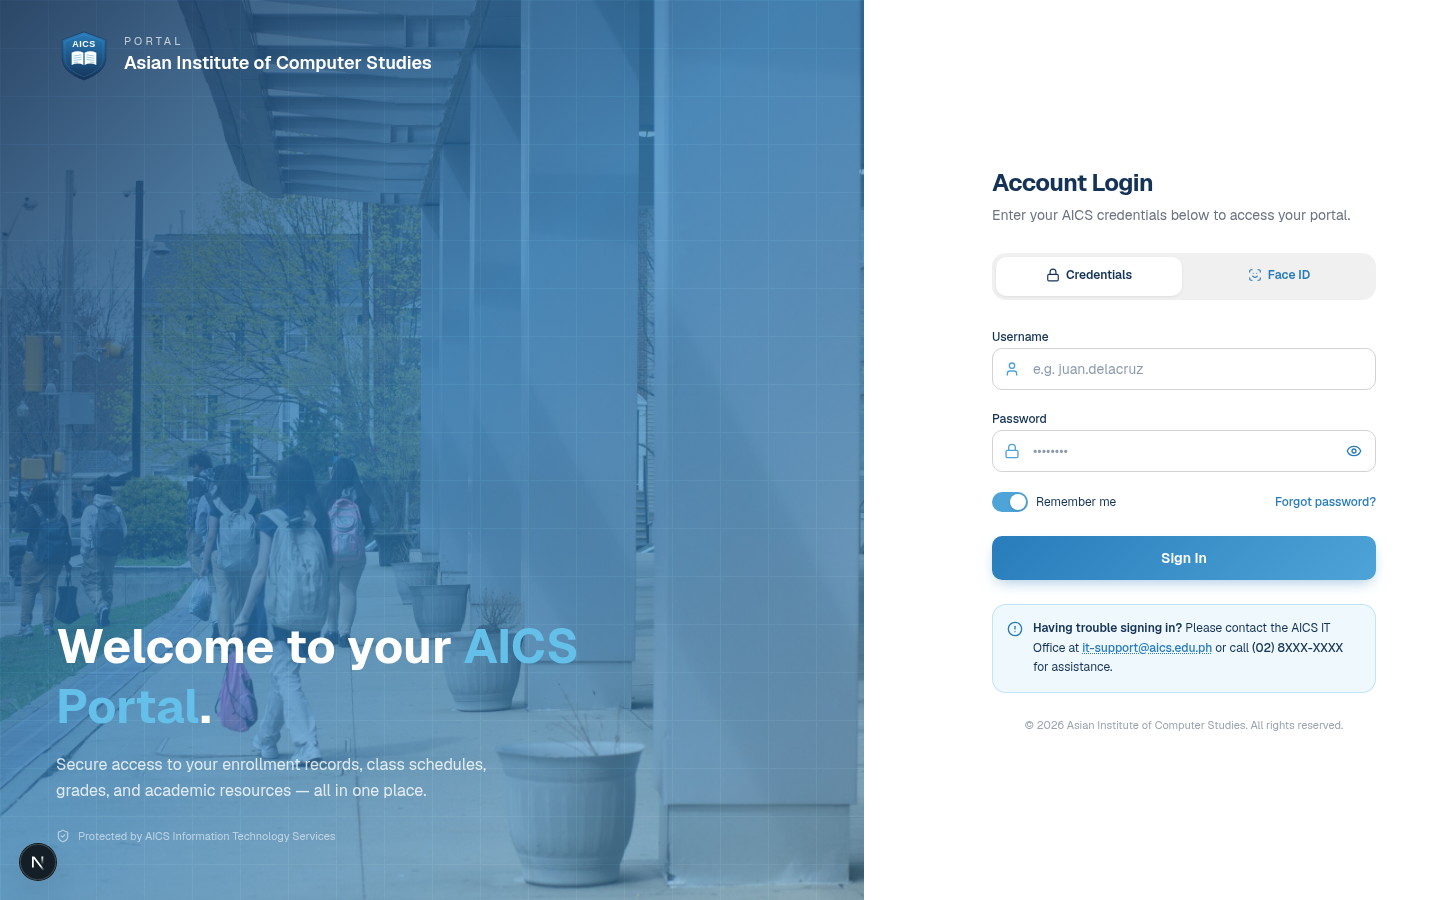
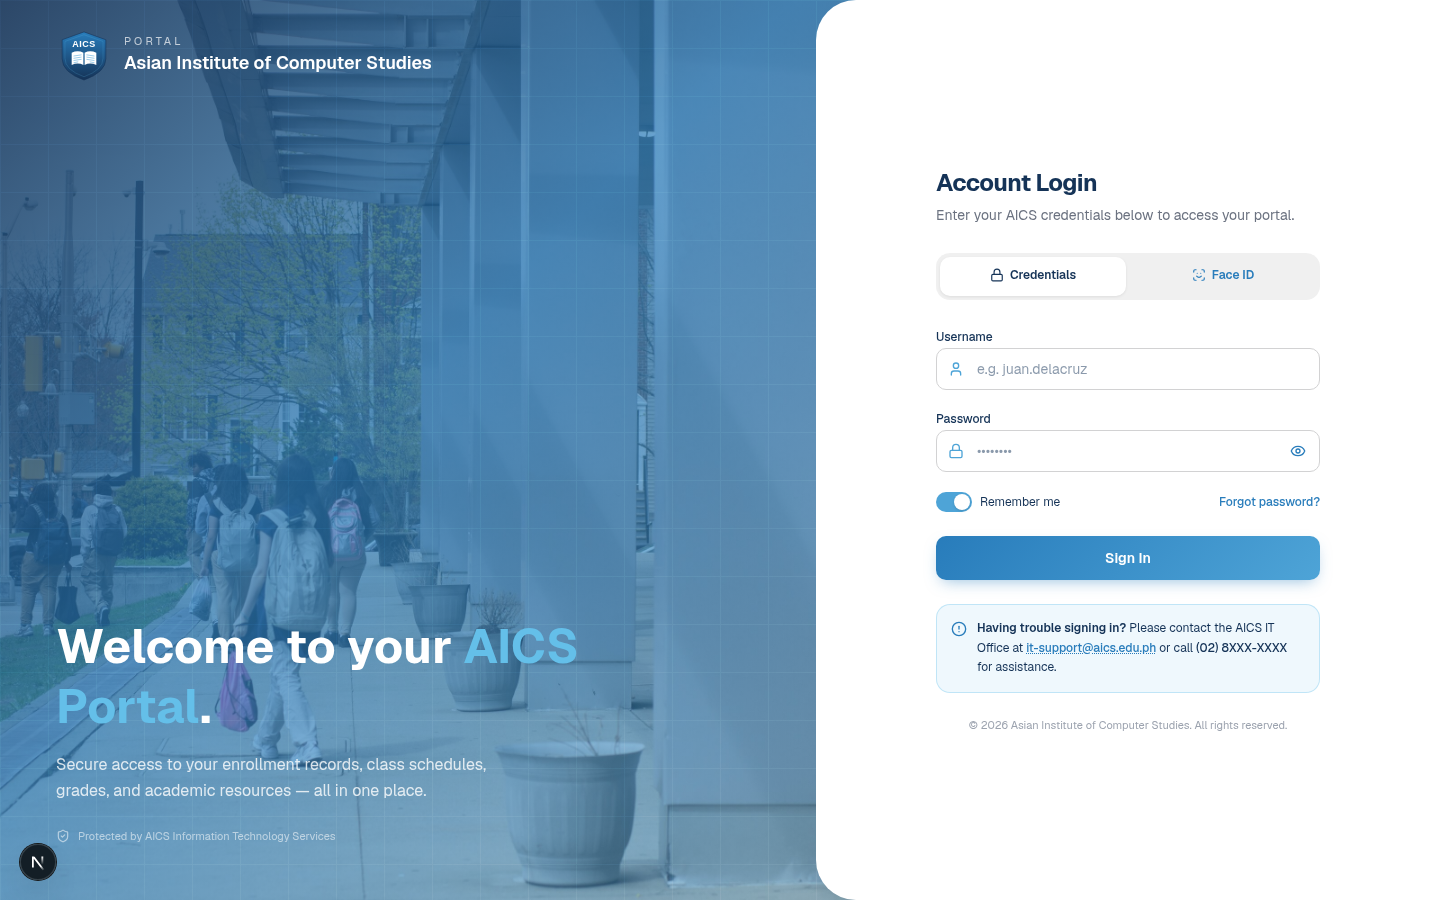
a8d592a1-145b-4317-9dcc-b9e27a91ce82

diff --git a/src/app/page.tsx b/src/app/page.tsx
@@ -206,44 +206,18 @@ export default function AICSLoginPage() {
         </div>
       </section>
 
-      {/* ============ RIGHT 40% — Login form (white, curved LEFT edge) ============ */}
+      {/* ============ RIGHT 40% — Login form (white, rounded LEFT corners only) ============ */}
+      {/* White panel overlaps the blue image by 3rem (lg:-ml-12) so the rounded
+          left corners sit on top of the blue. Width is calc(40% + 3rem) so the
+          panel's right edge still reaches the viewport's right edge.
+          Only border-top-left-radius and border-bottom-left-radius are applied
+          (rounded-l-[40px]); the right side stays square.
+          The blue image section is untouched and remains fully rectangular. */}
       <section
-        className="relative lg:w-[40%] w-full flex-1 lg:h-screen flex items-center justify-center px-6 sm:px-10 py-12 lg:py-0"
+        className="relative z-10 lg:w-[calc(40%+3rem)] w-full flex-1 lg:h-screen flex items-center justify-center px-6 sm:px-10 py-12 lg:py-0 lg:-ml-12 rounded-l-[40px]"
         style={{ background: PALETTE.white }}
       >
-        {/* Curve on the LEFT side only — white panel with a curved left edge */}
-        <svg
-          aria-hidden="true"
-          className="absolute top-0 left-0 h-full w-[140px] pointer-events-none hidden lg:block"
-          viewBox="0 0 140 800"
-          preserveAspectRatio="none"
-        >
-          {/* Filled white shape with curved LEFT edge — the white panel itself */}
-          <path
-            d={`M 0 0
-                L 140 0
-                L 140 800
-                L 0 800
-                Q 60 400 0 0
-                Z`}
-            fill={PALETTE.white}
-          />
-        </svg>
-
-        {/* Mobile curve (top only) */}
-        <svg
-          aria-hidden="true"
-          className="absolute top-0 left-0 w-full h-[60px] pointer-events-none lg:hidden"
-          viewBox="0 0 800 60"
-          preserveAspectRatio="none"
-        >
-          <path
-            d={`M 0 0 L 800 0 L 800 60 Q 400 0 0 60 Z`}
-            fill={PALETTE.white}
-          />
-        </svg>
-
-        <div className="relative w-full max-w-sm lg:ml-16">
+        <div className="relative w-full max-w-sm">
           {/* Heading */}
           <div className="mb-7">
             <h2 className="text-2xl font-bold tracking-tight" style={{ color: PALETTE.navy }}>
